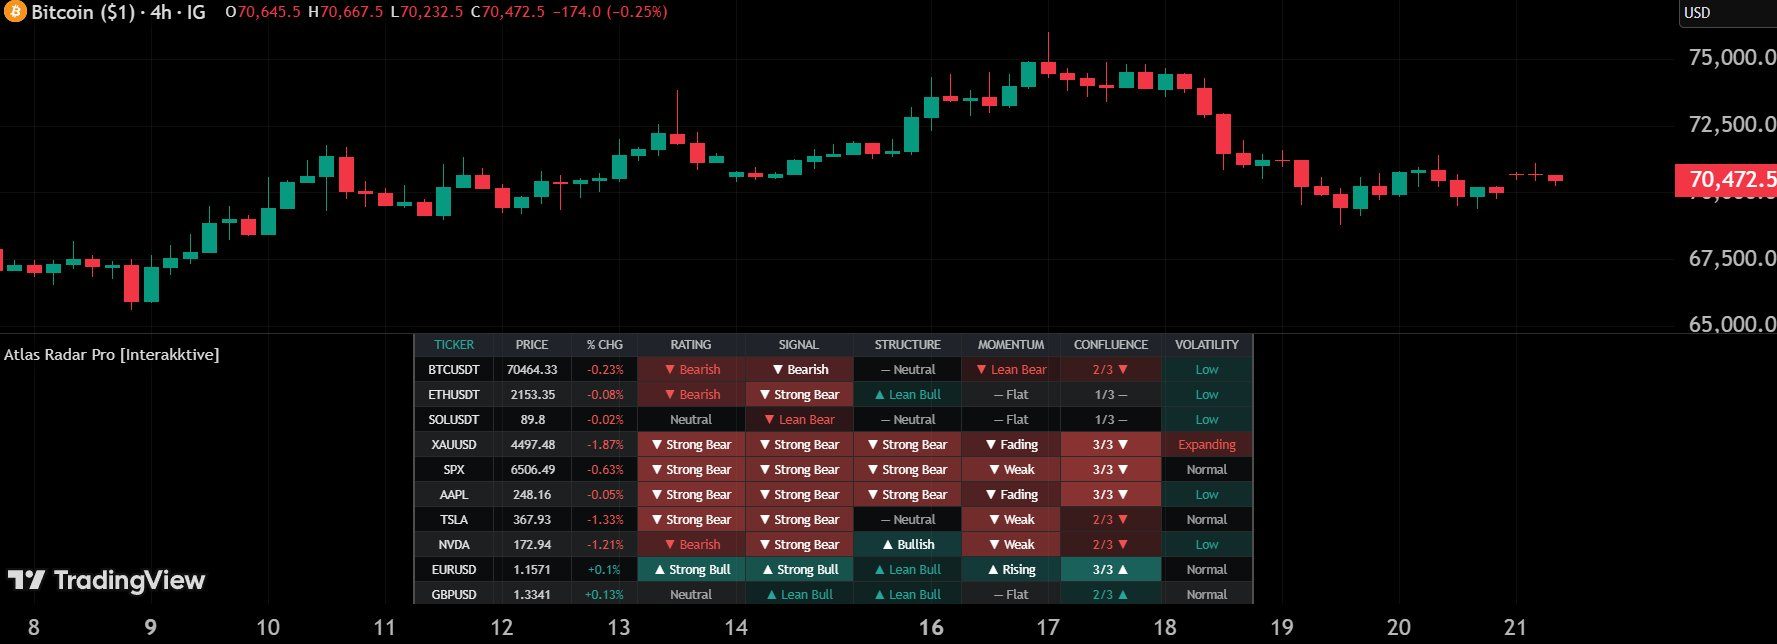
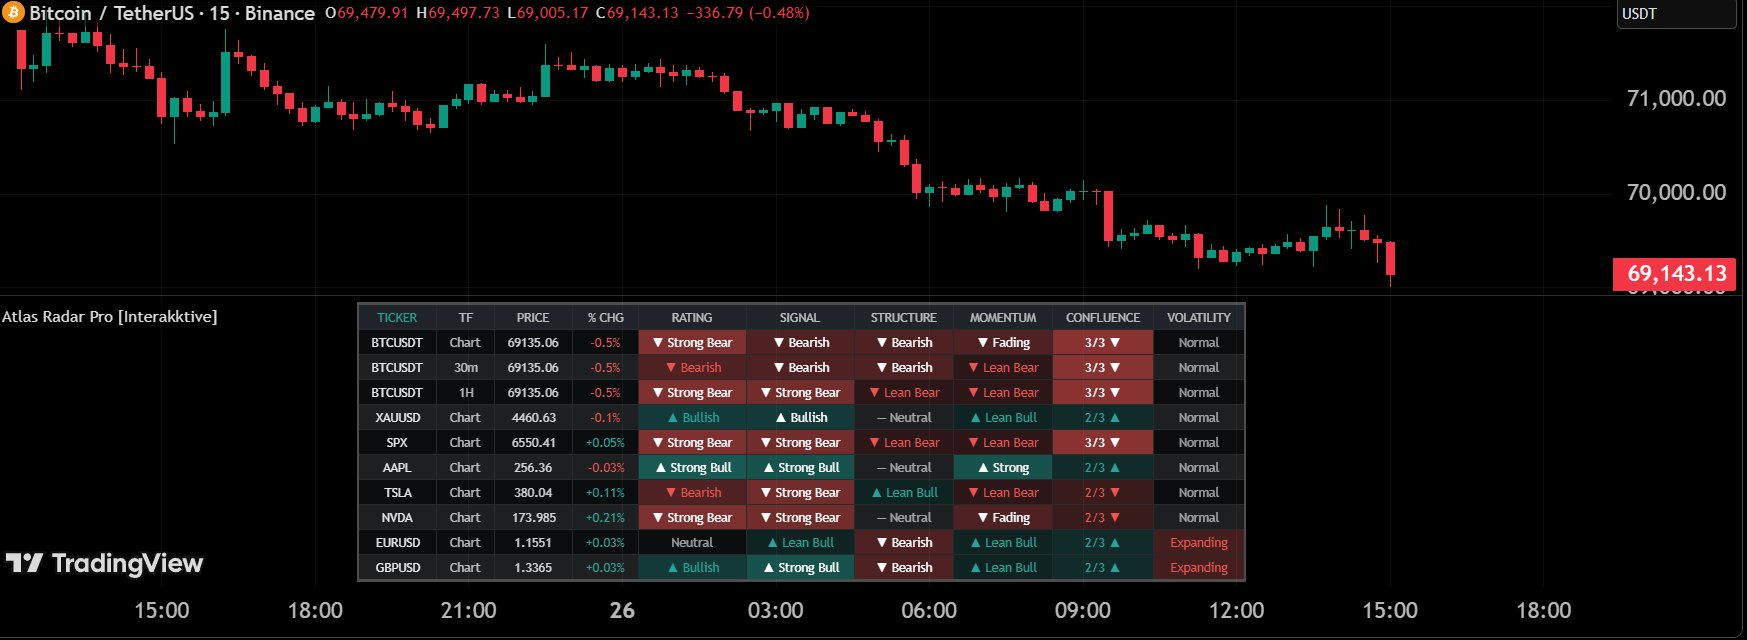
RADAR PRO v1.0.1: TF column update + new screenshot + docs

diff --git a/app/lib/pro-indicator-docs.ts b/app/lib/pro-indicator-docs.ts
@@ -1157,10 +1157,10 @@ export const proIndicatorDocs: Record<string, ProIndicatorDoc> = {
 
   'atlas-radar-pro': {
     title: 'Atlas Radar Pro',
-    subtitle: 'Screening Intelligence — the multi-ticker scanner of the ATLAS suite. Scans 10 tickers simultaneously across three independent engines (Signal, Structure, Momentum) with unified Confluence rating, 5-column sorting, 3 stackable filters, volatility classification, and JSON alerts for automation.',
+    subtitle: 'Screening Intelligence — the multi-ticker scanner of the ATLAS suite. Scans 10 tickers simultaneously across three independent engines (Signal, Structure, Momentum) with unified Confluence rating, dedicated Timeframe column for multi-TF scanning, 5-column sorting, 3 stackable filters, volatility classification, and JSON alerts for automation.',
     tradingViewUrl: 'https://www.tradingview.com/script/V6tg80MI-Atlas-Radar-Pro-Interakktive/',
     role: 'Screening Intelligence',
-    lines: '819',
+    lines: '835',
     sections: [
       {
         id: 'overview',
@@ -1182,8 +1182,10 @@ export const proIndicatorDocs: Record<string, ProIndicatorDoc> = {
           <h3>Key Properties</h3>
           <ul>
             <li><strong>Scan up to 10 tickers</strong> simultaneously from a single chart</li>
+            <li><strong>Dedicated TF column</strong> — see at a glance which timeframe each row represents</li>
             <li><strong>6 JSON alert types</strong> with transition detection</li>
             <li><strong>Per-ticker timeframe override</strong> — each ticker can scan a different timeframe</li>
+            <li><strong>All columns independently toggleable</strong> — customise the table to show only what you need</li>
             <li><strong>Triple-engine confluence</strong> — three genuinely independent engines for high-conviction signals</li>
           </ul>
         `,
@@ -1270,6 +1272,7 @@ export const proIndicatorDocs: Record<string, ProIndicatorDoc> = {
           <p>Each column can be toggled independently:</p>
           <ul>
             <li><strong>Ticker</strong> — Always shown. Symbol name extracted from the full exchange:symbol format.</li>
+            <li><strong>TF</strong> — Displays the configured timeframe for each row. Shows "Chart" when following the chart timeframe, or the specific TF (1m, 15m, 1H, 4H, D, W, etc.). Essential for multi-TF scanning of the same ticker.</li>
             <li><strong>Price</strong> — Current close price</li>
             <li><strong>% Change</strong> — Percentage change from previous bar. Green = up, red = down.</li>
             <li><strong>Rating</strong> — Overall rating (Strong Bull → Strong Bear) with colour coding</li>
@@ -1292,7 +1295,7 @@ export const proIndicatorDocs: Record<string, ProIndicatorDoc> = {
           <p>Sort the table by any of: Rating, Signal, Confluence, Momentum, or % Change. Default descending (strongest first). Toggle ascending for weakest first.</p>
 
           <h3>Per-Ticker Timeframe</h3>
-          <p>Each ticker can have its own timeframe override. Leave blank to follow the chart timeframe. Set to a specific TF (e.g., "60" for 1H) to scan that ticker on a different timeframe than the chart. This lets you scan a mix of timeframes in one table.</p>
+          <p>Each ticker can have its own timeframe override. Leave blank to follow the chart timeframe (displayed as "Chart" in the TF column). Set to a specific TF (e.g., 1H, 4H, D) to scan that ticker on a different timeframe. Assign the same ticker to multiple slots with different TFs to build a multi-timeframe view of a single asset — the TF column makes each row instantly identifiable.</p>
         `,
       },
       {
@@ -1367,7 +1370,7 @@ export const proIndicatorDocs: Record<string, ProIndicatorDoc> = {
           </ol>
 
           <h3>Scanning Multiple Timeframes</h3>
-          <p>Set different timeframes per ticker to scan your watchlist across multiple perspectives. For example: BTC on 1H, ETH on 4H, SPX on Daily — all in one table. When a ticker shows Strong on a higher TF, it's a swing setup. Strong on a lower TF = a scalp opportunity.</p>
+          <p>Assign the same ticker to multiple slots with different timeframes to see all TF assessments side by side. For example: set slots 1-3 to BTCUSDT on 15m, 1H, and 4H — the TF column instantly shows which row is which. When all timeframes align, conviction is at its highest. When lower TFs diverge from higher TFs, a reversal may be forming.</p>
 
           <h3>Using Filters Effectively</h3>
           <ul>
@@ -1398,8 +1401,8 @@ export const proIndicatorDocs: Record<string, ProIndicatorDoc> = {
           <h3>Tip 3: Triple-Engine Confluence</h3>
           <p>RADAR's power lies in having three genuinely independent engines — a proprietary adaptive signal engine, an independent structure engine, and a fully proprietary momentum engine — all in a single screener. When all three agree, the conviction is unmatched.</p>
 
-          <h3>Tip 4: Use Per-Ticker TF for Multi-Timeframe Scanning</h3>
-          <p>Set your main holdings to higher timeframes (Daily/Weekly) and your trading watchlist to lower timeframes (1H/4H). One table gives you both the macro view and the trading view simultaneously.</p>
+          <h3>Tip 4: Use the TF Column for Multi-Timeframe Scanning</h3>
+          <p>Assign the same ticker to multiple slots with different timeframes — the TF column shows exactly which timeframe each row represents. Set your main holdings to higher timeframes (Daily/Weekly) and your trading watchlist to lower timeframes (1H/4H). One table gives you both the macro view and the trading view simultaneously. When all TFs for one ticker show 3/3 confluence in the same direction, that's as high-conviction as it gets.</p>
 
           <h3>Tip 5: Set STRONG_SETUP Alerts</h3>
           <p>The STRONG_SETUP alert fires when a ticker reaches Strong Bull or Strong Bear with 3/3 confluence. This is the highest-conviction setup RADAR can produce. Set it and let RADAR notify you instead of watching the table all day.</p>

diff --git a/app/lib/indicators-data.ts b/app/lib/indicators-data.ts
@@ -399,15 +399,17 @@ export const proIndicators: Indicator[] = [
     id: 'atlas-radar-pro',
     title: 'Atlas Radar Pro [Interakktive]',
     shortTitle: 'RADAR PRO',
-    description: 'A multi-ticker intelligence screener scanning 10 tickers simultaneously across three independent engines: Signal, Structure, and Momentum. The only screener on TradingView with three genuinely independent analytical dimensions producing a unified Confluence rating.',
+    description: 'A multi-ticker intelligence screener scanning 10 tickers simultaneously across three independent engines: Signal, Structure, and Momentum. The only screener on TradingView with three genuinely independent analytical dimensions producing a unified Confluence rating. Includes a dedicated Timeframe column for multi-TF scanning of the same ticker.',
     features: [
       '10-ticker simultaneous scanning via request.security()',
       'Signal Engine \u2014 6-factor stateless confluence assessment',
       'Structure Engine \u2014 stateless HH/HL vs LH/LL bias detection',
       'Momentum Engine \u2014 100% proprietary adaptive computations',
       'Cross-engine Confluence rating with weighted composite scoring',
+      'Timeframe column \u2014 scan the same ticker across multiple TFs in one table',
       '3 stackable filters + 5-column sorting',
       'Volatility classification across 5 tiers',
+      'All columns independently toggleable',
       '6-type JSON alert system with transition detection',
     ],
     useCases: [
@@ -417,7 +419,7 @@ export const proIndicators: Indicator[] = [
       'Sort by signal, structure, momentum, confluence, or rating',
       'Set alerts for rating transitions to catch emerging setups',
     ],
-    technicalDetails: '40 request.security() calls (10 tickers \u00d7 4 fetch loops) | Stateless architecture prevents var state bleed | No competitor has 3 independent engines in a single screener',
+    technicalDetails: '40 request.security() calls (10 tickers \u00d7 4 fetch loops) | 835 lines | Stateless architecture prevents var state bleed | Toggleable TF column for multi-timeframe scanning | No competitor has 3 independent engines in a single screener',
     tradingViewUrl: 'https://www.tradingview.com/script/V6tg80MI-Atlas-Radar-Pro-Interakktive/',
     category: 'pro',
     stats: {
